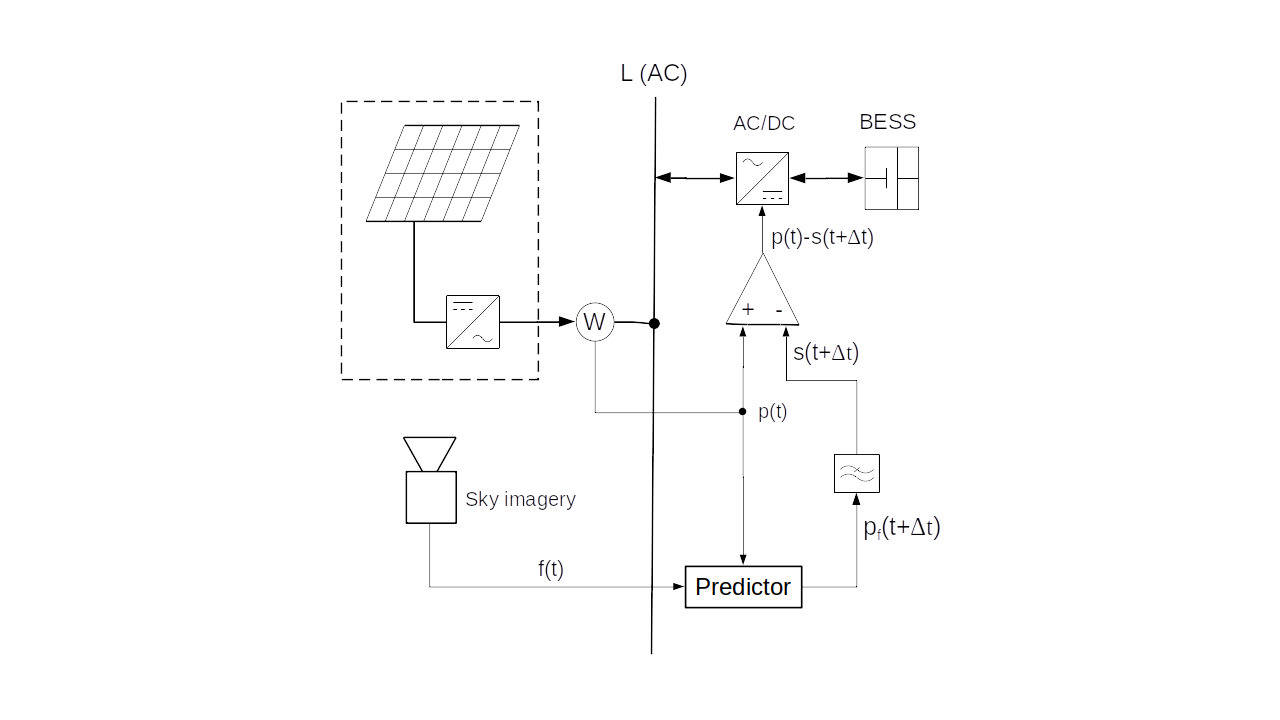
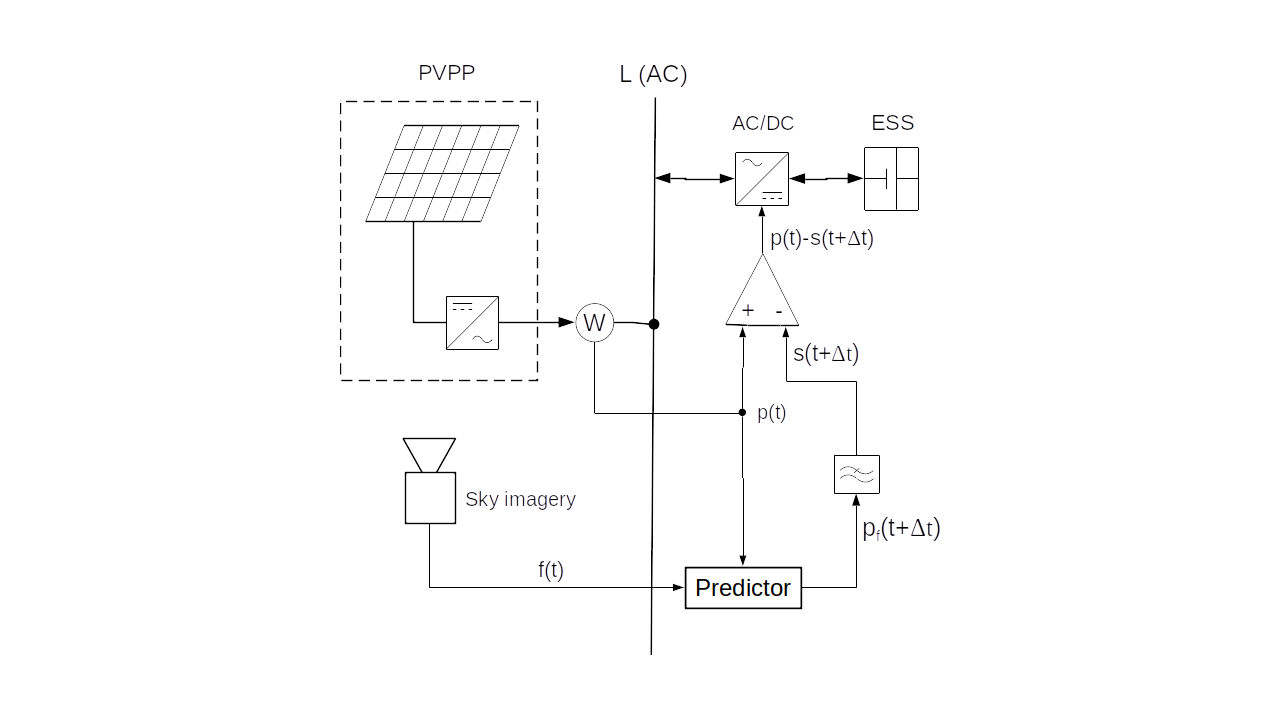
updated PLPF schema

diff --git a/docs/pv_smooth.md b/docs/pv_smooth.md
@@ -1,55 +1,55 @@
-#Smoothing of PV power intermittency
-Energy balancing between the grid and the battery may eliminate the PV intermittency almost loss-free. The objective of a loss-free smoothing is to meet the maximum ramping limits of PV power (allowed by a relevant technical standard) while accumulating the minimum possible energy by the filter. If the smooth PV power is generated by a low-pass filter (LPF) excited by the electrical output of PV panels, such a power filter induces high accumulation costs due to its time lag (group delay in its frequency response). The time lag could be eliminated, if LPF was excited by the future PV power signal. Unfortunately, the short-time PV prediction (nowcasting) is not exact and its error dramatically increases the accumulated energy by the LPF. Recently, various 
+#Smoothing of intermittent PV power
+Energy balancing between the grid and the battery may eliminate the PV intermittency almost loss-free. The objective of a loss-free smoothing is to meet the maximum ramping limits of PV power (allowed by a relevant technical standard) while accumulating the minimum possible energy by the filter. If the smooth PV power is generated by a low-pass filter (LPF) excited by the electrical output of PV panels, such a power filter induces high accumulation costs due to its time lag (a group delay in its frequency response). The time lag could be eliminated, if LPF was excited by the future PV power signal. Unfortunately, the short-time PV prediction (nowcasting) is not exact and its error dramatically increases the accumulated energy by the LPF. Recently, various 
 [predictive filters](https://www.sciencedirect.com/science/article/abs/pii/S1364032119304459)
  (e.g. 
 [zero group-delay filter](https://www.planetanalog.com/five-things-to-know-about-prediction-and-negative-delay-filters/)
 , [Kalman filter](https://www.kalmanfilter.net/default.aspx)
 , moving average, moving median, etc.) have been developed to avoid the accumulation of PV energy due to the LPF time lag and the nowcasting error. Nevertheless, the accumulation of PV power and its cost induced by the predictive filters still exceed the production cost of e.g. nuclear electricity. The advantage of predictive filters is that they integrate the predictor and LPF into a same entity, but their disadvantage is that the predictor is trained by a limited information carried by the signal GI(t).  
-We focus our analysis on the application of a 
+We focus our analysis on the application of
 [standard LPF](https://www.analog.com/en/design-center/glossary/low-pass-filter.html)
- excited by a 
+ excited by 
 [PV predictor](https://www.sciencedirect.com/science/article/abs/pii/S0038092X14001327)
-  trained by the sky imagery and GI(t) signals:
+  trained by the sky imagery and GI(t) signals. We further integrate the two into one entity, utilizing the advantage of predictive filters.
 
 <figure markdown>
   ![PLPF Schema](img/Schema_PLPF.png){ width="650"}
   <figcaption>Figure 1: Smoothing of PV power by a low-pass filter</figcaption>
 </figure>
 
-In the schematic diagram on Figure 1, PV power plant (PVPP) is connected to the grid and its intermittent PV power p(t) is accumulated or compensated (i.e. smoothed) by the accumulator (BESS). The smoothing power is actuated by a bi-directional inverter AC/DC. It is determined by the ouput signal p(t)-s(t+Δt) of a differencer. Positive sign of the smoothing power is oriented from the grid to BESS. Hence the total power superimposed to the grid by PVPP and BESS is determined by the filter’s output signal s(t+Δt). For the simplification, PVPP and BESS are single-phase-connected to the grid. We will further consider 4 different smoothing methods:
+In the schematic diagram on Figure 1, a PV power plant (PVPP) is connected to the grid and its intermittent PV power p(t) is accumulated or compensated (i.e. smoothed) by an accumulator (ESS). The smoothing power is actuated by a bi-directional inverter AC/DC. The smoothing power is determined by the ouput signal p(t)-s(t+Δt) of a differencer. Positive sign of the smoothing power is oriented from the grid to ESS. Hence the total power superimposed to the grid by PVPP and ESS is determined by the filter’s output signal s(t+Δt). For the simplification, PVPP and ESS are single-phase-connected to the grid. We will further analyse 4 different smoothing methods:
 
-- In case of **LPF** smoothing, the measured signal p(t) would bypass the predictor, directly exciting LPF.
+- In case of **LPF** smoothing, the measured signal p(t) would bypass the predictor, directly exciting the LPF.
 
-- In theory, ideal predictive smoothing **IPLPF** would excite LPF by the exact future PV power signal p(t+Δt) where the time advance Δt is absolutely equal to the LPF's group delay at frequencies f<<fc, and fc is the cut-off frequency of LPF. The smooth power signal s(t+Δt) would be the response of LPF to the input signal p(t+Δt).
+- In theory, an ideal predictive smoothing **IPLPF** would excite LPF by the exact future PV power signal p(t+Δt) where the time advance Δt is absolutely equal to the LPF's group delay at frequencies f<<fc, and fc is the cut-off frequency of LPF. The smooth power signal s(t+Δt) would be the response of LPF to the input signal p(t+Δt).
 
-- According to the schematic diagram, **PLPF** smoothing method excites LPF by a predicted PV power signal pf(t+Δt). Its predictor is trained by the sky-imagery signal and by the measured PV power p(t).
+- According to the schematic diagram, **PLPF** smoothing method excites the LPF by a predicted PV power signal pf(t+Δt). Its predictor is trained by the sky-imagery signal and by the measured PV power p(t).
 
 - Eventually, a smart smoothing method **SPLPF** (patent pending) has been designed, integrating the filter with the PV predictor which is trained by the sky-imagery signal and by the measured PV power p(t). This method uses a modified scheme.
 
 ## Accumulation of energy by smoothing
-For simplicity of analysis, the energy losses in AC/DC conversion and accumulation are neglected.  
+For the simplicity of analysis, energy losses in AC/DC conversion and accumulation are neglected.  
 Time course of the accumulated energy by ESS:
 
 $$SOC(t)=\int_{0}^t (p(\tau)-s(\tau+\Delta t))d\tau\ \ \ \ \ \ \ \ \ (1)$$
 
-defines the change of its state-of-charge [Wh] since time=0 until time=t, while SOC may acquire both positive and negative values. (Always-positive SOC values can be technically managed in ESS.) The time advance Δt reduces absolute values of the integrated function. The above-defined time advance Δt ensures that following technical criteria are satisfied:  
+defines the change of its state-of-charge [Wh] since time=0 until time=t, while SOC may acquire both positive and negative values. (Always-positive SOC values should be technically managed in ESS.) The time advance Δt reduces absolute values of the integrated function. The above-defined time advance Δt ensures following technical criteria to be satisfied:  
 Mean value of SOC is near to zero: $${1 \over T} \int_{0}^T SOC (t) dt ≈ 0\ \ \ \ \ \ \ \ \ (2)$$
 
 Mean quadratic deviation of SOC is near to minimum: $${1 \over T} \int_{0}^T SOC^2 (t) dt ≈ min\ \ \ \ \ \ \ \ \ (3)$$
 
-Hence near-to-minimum required accumulaton capacity per cycle: $$\Delta SOC = max(SOC) – min(SOC) ≈ min\ \ \ \ \ \ \ \ \ (4)$$
+Hence the required accumulaton capacity per cycle is near to minimum: $$\Delta SOC = max(SOC) – min(SOC) ≈ min\ \ \ \ \ \ \ \ \ (4)$$
 
 The value ΔSOC should be predicted and ESS must be accordingly pre-charged at the begining of each cycle T (24 hours in case of PV energy) in order to always keep SOC≥0.  
 Eventually, near-to-minimum throughput of accumulated energy per cycle is achieved by Δt: $${1 \over 2} \int_{0}^T|p(\tau)-s(\tau+\Delta t)|d \tau ≈ min\ \ \ \ \ \ \ \ \ (5)$$
 
-The rate of accumulation is expressed by (4) and (5) which are minimized by Δt during a working cycle T. The rate of accumulation is also expressed by the extreme ESS power demand p(τ)-s(τ+Δt) during a sudden loss or peak of direct sunlight. This value results from the installed power of PVPP.
+The rate of accumulation is expressed by (4) and (5) which are minimized during a working cycle T. The rate of accumulation is also expressed by the extreme ESS power demand p(τ)-s(τ+Δt) during a sudden loss or peak of direct sunlight. This value results from the installed power of PVPP.
 
-Let us assume that PV power is proportional to the global solar irradiance GI [W/m2]. In our experiment, the solar irradiance is intercepted by a planar panel 20 cm x 16 cm on the earth’s surface at latitude=48.2°N, longitude=17.1°E, with the plane of incidence elevated by 47°, south-oriented. At this point it should be mentioned that the spectrum of a real PV power is smoother than the spectrum of GI(t), as the surface area of PV plane acts like a moving-average filter. Unfortunately, the size and speed of clouds prevents a true smoothing effect from being achieved. By assuming the proportionality between the PV power p(t) and the global irradiance GI(t), we analyze the worst case of solar intermittency. Let us substitute the signals p(τ), s(τ+Δt) in (1) by the measured signal GI(τ) and by its “predicted-and-smoothed” counterpart GIs(τ+Δt). After substituting, the expression (1) computes the time course of specific accumulated energy GX(t) [Wh/m2] by the filter.
+Let us assume that the PV power is proportional to the global solar irradiance GI [W/m2]. In our experiment, the solar irradiance is intercepted by a planar panel 20 cm x 16 cm on the earth’s surface at latitude=48.2°N, longitude=17.1°E, with the plane of incidence elevated by 47°, south-oriented. At this point it should be mentioned that the spectrum of real PV power is smoother than the spectrum of GI(t), as (usually) greater surface area of the corresponding PVPP plane acts like a moving-average filter. Unfortunately, the size and speed of clouds prevent a true smoothing effect from being achieved. By assuming the proportionality between the PV power p(t) and the global irradiance GI(t), we analyze the worst case of PV intermittency. Let us substitute the signals p(τ), s(τ+Δt) in (1) by the measured signal GI(τ) and by its “predicted-and-smoothed” counterpart GIs(τ+Δt). After substituting, the expression (1) computes the time course of specific accumulated energy GX(t) [Wh/m2] by the filter.
 
 ## Ideal smoothing (IPLPF)
 We simulate the operation of ideal predictive PV smoothing (IPLPF) by means of LPF excited by the exact future signal GI(t+Δt) where GI(t) is measured and the time advance Δt (given by the LPF group delay) eliminates the filter’s time lag. In theory, such a "ex post" simulated smoothing would minimize the accumulation of energy by the filter. This analysis aims to reveal the theoretical potential and affordability of PV smoothing. The numeric experiment is based on the measured solar irradiance over a period of 1 year, assuming contemporary prices of Lithium-Ion accumulators and EDLC supercapacitors.  
-The measured time series GI(t) eventually allows to calculate the specific accumulator’s capacity [Wh/m2], its specific power [W/m2], specific energy throughput [Wh/m2/day], [Wh/m2/year] requested by the IPLPF smoothing. Based on the accumulators’ specifications and prices in 2021, the corresponding accumulation costs have been calculated. This confirmed that the IPLPF operation is definitely worthwhile with the German power purchase tariff and PV feed-in tariff in 2021. The ideal smoothing costs are substantially lower than the difference between purchase tariff and PV feed-in tariff. (We may assume that the smooth PV infeed partially compensates for the distribution costs.) 
-The simulation suggests an affordable smoothing model for a hybrid small-scale PV plant, and suggests the accumulation technology for large-scale PV plants.  
+The measured time series GI(t) eventually allows to calculate the specific accumulator’s capacity [Wh/m2], its specific power [W/m2], specific energy throughput [Wh/m2/day], [Wh/m2/year] requested by the IPLPF smoothing. Based on the accumulators’ specifications and prices in 2021, the corresponding accumulation costs have been calculated. This confirmed that the IPLPF operation is definitely worthwhile with the German power purchase tariff and PV feed-in tariff in 2021. The ideal smoothing costs are substantially lower than the difference between purchase and PV feed-in tariffs. (We may assume that the smooth PV infeed partially compensates for the distribution costs.) 
+The simulation suggests an affordable smoothing model for a hybrid small-scale PV plant, and suggests the accumulation technology for a large-scale PV plant.  
 ### Smoothing by IPLPF vs LPF  
 Global irradiance GI measured (legend meas), filtered by LPF (legend lp) and by IPLPF (legend aavg0), and specific accumulated energy GX:  
 ![PV Logger](img/GI_PV2.3but7.5.2022-04-04.png){: style="width: 49%; align='left';"}
@@ -58,7 +58,7 @@ Global irradiance GI measured (legend meas), filtered by LPF (legend lp) and by 
 The left graph shows the measured and low-passed (legend “lp”) GI signals on a day with high solar exposure and strong intermittency. The graph on the right shows the specific accumulated energy GX [Wh/m2] by IPLPF vs. LPF on the same day. The time course of GX is proportional to the battery's state of charge SOC [Wh]. Exactly-predicted input signal shifts the IPLPF output to the left (legend “aavg0”), minimizing the standard deviation of SOC, thus in practise minimizing the difference ΔSOC = max(SOC) – min(SOC) which is the requested accumulation capacity. The throughput of accumulated energy (other than ΔSOC) is also minimized by IPLPF.
 
 ### Costs of IPLPF smoothing
-The smoothing costs result from the energy accumulation. Accumulation costs are given by the rate of accumulation and the technology (e.g. Lithium-Ion RedOx, EDLC supercapacitor etc.). In theory, the accumulation rate is given by the intermittency of solar irradiance vs. desired time course of the output PV power. The accumulation rate is quantified by:
+The smoothing costs result from the energy accumulation. Accumulation costs are given by the rate of accumulation and the technology (e.g. Lithium-Ion RedOx, EDLC supercapacitor etc.). In theory, the accumulation rate is given by the intermittency of solar irradiance vs. desired time course of the output PV power. The accumulation rate can be quantified by:
 
 1. mandated ESS capacity, i.e. ΔSOC [Wh] reserved for smoothing (4)
 2. total accumulated energy throughput [Wh] by smoothing (5)
@@ -66,7 +66,7 @@ The smoothing costs result from the energy accumulation. Accumulation costs are 
 
 In practice, the values 1. and 2. are larger the more imperfectly the balancing power between the grid and the battery is controlled. In the illustrated example, IPLPF needs only 24% ΔSOC relative to LPF, and IPLPF accumulates about 50% of the energy throughput if compared to LPF. Both ΔSOC and energy throughput reach their theoretical minimum by means of IPLPF smoothing.  
 The higher LPF order or its lower cut-off frequency, the smoother output, but "earlier" input signal needed to eliminate the filter's time lag. (In case of PLPF smoothing: The greater Δt, the greater prediction error and the greater rate of accumulation.)  
-The IPLPF simulation has confirmed that a hybrid PV system i.e. a small-scale on-grid PV plant having its own BESS with capacity = 2 hours x Ppvmax, need <10% of the BESS capacity to be reserved for smoothing (7% on 2022-03-04), while the rest BESS capacity is used for the energy storage. The hybrid PV plant feeds its “overflow” power into the grid, as long as the household’s consumption is satisfied and the battery has been charged. ***Having the reserved free capacity and total battery power available, the IPLPF costs are reasonably lower than the expected added value to the smooth PV power infeed.***  
+The IPLPF simulation has confirmed that a hybrid PV system i.e. a small-scale on-grid PV plant having its own Lithium battery (BESS) with capacity = 2 hours x Ppvmax, need <10% of the BESS capacity to be reserved for smoothing (7% on 2022-03-04), while the rest BESS capacity is used as the energy storage. The hybrid PV plant feeds its “overflow” power into the grid, as long as the household’s consumption is satisfied and the battery has been charged. ***Having the reserved free capacity and total battery power available, the IPLPF costs are reasonably lower than the expected added value to the smooth PV power infeed.***  
 
 IPLPF costs measured from 04/2021 to 03/2022. The plane of incidence and the LPF applied are the same as in the GI(t) and GX(t) plots:  
 <figure markdown>
@@ -80,7 +80,7 @@ CapEx of "Hybrid with BESS” system include 90% of the BESS capacity reserved f
 Li-Ion & supercapacitor (SC): [life cycle parameters and prices](https://batteryuniversity.com/article/bu-209-how-does-a-supercapacitor-work) are as of 2021.  
 Hybrid supercapacitor (HSC): price has been estimated upon relation between Li-Ion and SC prices.
 
-The costs are specific per 1 kW of installed PV power. Installed PV power = DC output power of PV plant (before DC/AC conversion) assuming its solar incidence 1kW/m2 (1 Sun).  
+The costs are specific per 1 kW of installed PV power. Installed PV power = DC output power of PV plant (before DC/AC conversion) assuming its solar irradiance 1kW/m2 (1 Sun).  
 CapEx = initial investment to PV smoothing. OpEx = regular (e.g. yearly) costs necessary for its uninterrupted operation. The greater from (CapEx, interval * OpEx) defines the cost of PV smoothing for a given service interval. However, when the smoothing uses >1 accumulation technologies concurrently, the service interval has to be fixed before calculating OpEx. (Reason: Given the service interval, two technologies with different wear-outs can be optimally mixed.) Hybrid systems and sole PV plants use different cost models, because the sole PV plant uses a mixed accumulation technology for smoothing. Energy losses due to the AC/DC conversion and accumulation were neglected.
 
 ### Applications of IPLPF
@@ -88,7 +88,7 @@ CapEx = initial investment to PV smoothing. OpEx = regular (e.g. yearly) costs n
 A household with installed PV power <10kW is connected to the low-voltage grid, having a BESS with energy capacity ≈ 2h x installed PV power. After charging the BESS to a threshold SOC (e.g. 88%), the BESS provides enough power to smooth the PV infeed (overflowing PV power) to the grid for affordable costs, provided that the remaining free BESS capacity is left for smoothing, and additional technical measures avoid the microcycling of BESS. The power intermittency of small scale PV plants has no impact on the grid, unless their concentration in the grid is high. ***IPLPF technology offers an affordable smoothing of PV power in the grid areas with high concentration of small-scale hybrid PV systems.***
 
 #### Suitable accumulators for IPLPF
-The measured signal GI(t) determines the specific accumulation parameters maximum specific power max|GI(τ)-GIs(τ+Δt)| [W/m2] and maximum specific energy ΔGX=max(GX)-min(GX) [Wh/m2] required for the smoothing by IPLPF method. Although IPLPF shrinks the necessary ΔGX hence ΔSOC and the total accumulated throughput to their theoretical minimum, it reciprocally increases the relative smoothing power (Pmax x 1h)/ΔSOC up to 10C, since no algorithm can supply the missing PV power while the direct Sun beams are temporarily obscured by clouds. The lithium accumulators are cheap, efficient and fast, but not enough powerful for a sole IPLPF smoothing. It is not recommended to charge/draw a Li-Ion battery by a relative power >> 1, otherwise the battery’s life cycle would be curtailed. Such a high relative power is provided by EDLC supercapacitors (SC), but on contrary to Lithium bateries, these do not provide enough cheap capacity to make the IPLPF smoothing affordable. The currently-available electricity accumulation technology does not harmonize with demands of the sole IPLPF smoothing.  
+The measured signal GI(t) determines the specific accumulation parameters maximum specific power max|GI(τ)-GIs(τ+Δt)| [W/m2] and maximum specific energy ΔGX=max(GX)-min(GX) [Wh/m2] required for the smoothing by IPLPF method. Although IPLPF shrinks the necessary ΔGX hence ΔSOC and the total accumulated throughput to their theoretical minimum, it reciprocally increases the relative smoothing power (Pmax x 1h)/ΔSOC up to 8, since no algorithm can supply the missing PV power while the direct Sun beams are temporarily obscured by clouds. The lithium accumulators are cheap, efficient and fast, but not enough powerful for a sole IPLPF smoothing. It is not recommended to charge/draw a Li-Ion battery by a relative power >> 1, otherwise the battery’s life cycle would be curtailed. Such a high relative power is provided by EDLC supercapacitors (SC), but on contrary to Lithium bateries, these do not provide enough cheap capacity to make the IPLPF smoothing affordable. The currently-available electricity accumulation technology does not harmonize with demands of the sole IPLPF smoothing.  
 Actually, the IPLPF demands are well satisfied by a 
 [flywheel (FESS)](https://energystorage.org/why-energy-storage/technologies/flywheel-energy-storage-systems-fess/)
 : 1) Its max(SOC) poses no limit to max(P) within demands of IPLPF smoothing. 2) IPLPF accumulates energy only on solar-intermittent days (else no accumulation is needed), and the flywheels only wear out when they are rotating - mainly those with mechanical bearings. Because of unknown prices and life cycle parameters, we calculated neither CapExp, nor OpExp of the flywheel in a role of IPLPF accumulator. However, ***the native synergy between demands and features identifies the flywheel as a suitable accumulator for IPLPF smoothing.***
@@ -100,7 +100,7 @@ Because of missing FESS prices and wear-out data, we have cost-optimized the IPL
 , combining advantages of EDLC & RedOx technologies.
 
 ### Summary of IPLPF
-One year of the continous GI(t) measurement has confirmed that ideal PV smoothing can be affordable with the current Lithium-Ion technology - if properly implemented in a hybrid PV system (incl. measures against micro-cycling of a battery). Although the HSC technology is yet unavailable, the intensive seek for energy makes it very likely to be soon mature for large-scale installations. Flywheel can be an affordable energy storage in the IPLPF smoothing of PV power. ***Low accumulated energy by the IPLPF smoothing should motivate the further development of technologies among which accurate nowcasting of PV power and smart filtering of PV power are crucial.***
+One year of the continous GI(t) measurement has confirmed that ideal PV smoothing can be affordable with the current Lithium-Ion technology, if properly implemented in a hybrid PV system (inclusive measures against micro-cycling of its battery). Although the HSC technology is yet unavailable, the intensive seek for energy makes it very likely to be soon mature for large-scale PV installations. Flywheel can be an affordable energy storage in the IPLPF smoothing of PV power. ***Low accumulated energy by the IPLPF smoothing should motivate the further development of technologies among which accurate nowcasting of PV power and smart filtering of PV power are crucial.***
   
 ## Real smoothing of PV power
 The measured global irradiance signal GI(t) allows not only the simulation of ideal predictive low-pass smoothing (IPLPF), but also the predictive smoothing of PV power (PLPF), exciting a low-pass filter (LPF) by a simulated predicted signal GIf(t+Δt). The values GIf are biased by a prediction error. As we show below, this error induces a significant accumulation of energy by PLPF when compared with IPLPF. We simulated the prediction error to the measured GI values in order to statistically represent the real predicted signal GIf(t+Δt). Based on the measured signal GI(t), the "ex-post" simulation of PLPF allowed us to empirically analyze its smoothing performance and energy accumulation.  
@@ -131,7 +131,7 @@ For each method, the smoothing quality and the rate of accumulation were analyze
 Smoothing of PV power during a day with strong solar intermittency was analyzed by the four above-listed smoothing methods:
 The results of analysis have been tabelized and plotted. The impact of prediction error (see Figures 2, 6) exhibits the following empiric dependencies of the tracking criteria along the OLAP partial dimensions:
 
-### Analysis by prediction error
+### Impact of prediction error
 
 #### Smoothed predicted signal
 
@@ -169,14 +169,14 @@ With "better GI prediction accuracy", the SPLPF smoothing required 21% - 22% o
 
 With "worse GI prediction accuracy", the SPLPF smoothing required 24% - 33% of the ESS energy capacity (ΔGX) used by the LPF method during the selected days, or 19% - 28% of the capacity used by the PLPF method. SPLPF eventually required 1.2 - 1.8 times the ESS capacity used by the IPLPF method. The SPLPF method put 59% - 77% of the daily energy flow through the accumulator relative to the LPF method, or 63% - 69% of the energy throughput by the PLPF method. SPLPF eventually put 1.0 - 1.1 times more  energy through ESS than the IPLPF method.
 
-Although we haven't analyzed the whole year (the numerical simulation is computationally intensive), the analysis of 4 smoothing methods based on 2 days with high solar intermittency, different solar exposures, with various filter orders and prediction errors gave the real assumption that SPLPF performs much better than PLPF, and provided that the prediction error is relatively low, ***SPLPF with the optimal filter order performs close to the ideal smoothing IPLPF.*** These empiric results were also theoretically justified.
+Although we haven't analyzed the whole year (the numerical simulation is computationally intensive), the analysis of 4 smoothing methods based on 2 days with high solar intermittency, different solar exposures, with various filter orders and prediction errors gave a real assumption that SPLPF performs much better than PLPF, and provided that the prediction error is relatively low, ***SPLPF with the optimal filter order performs close to the ideal smoothing IPLPF.*** These empiric results were also theoretically justified.
 
 ## Graphical display of smoothing
-Following graphs illustrate the smoothing quality by the prediction accuracy and smoothing method, and the minimizing of accumulated energy by the filter order. The measured PV data from 2 selected days have been processed and plotted as the following per-day time courses:
+Following graphs illustrate the smoothing quality by the prediction accuracy and smoothing method, and the accumulated energy by filter order. The measured PV data from 2 selected days have been processed and plotted as the following per-day time courses:
 
 - Measured GI(t), synchronized with predicted GIf (1 hour zoomed) - Figures 2, 6
-- Measured GI(t) and its smooth counterpart by the prediction accuracy and smoothing method, applying the optimal LPF order - Figures 3, 4, 7, 8
-- Accumulated GX(t) by the prediction accuracy and smoothing method, applying the optimal LPF order - Figures 5, 9
+- Measured GI(t) and its smooth counterpart by the smoothing method and prediction accuracy, applying the optimal LPF order - Figures 3, 4, 7, 8
+- Accumulated GX(t) by the smoothing method and prediction accuracy, applying the optimal LPF order - Figures 5, 9
 - Smoothed GI(t) by the filter order and prediction accuracy, using the IPLPF and SPLPF smoothing methods - Figures 10-12, 16-18
 - Accumulated GX by the filter order and prediction accuracy, using the IPLPF and SPLPF smoothing methods - Figures 13-15, 19-21
 

diff --git a/docs/pv_log.md b/docs/pv_log.md
@@ -1,20 +1,20 @@
 # Photovoltaic intermittency and its measurement
-## Impact on the grid
-Intermittency of solar irradiance causes that time course of photovoltaic (PV) power generation is unstable over time. As the share of PV energy in the grid increases, the intermittency of solar power is posing still higher risk to the power quality and grid's stability. To mitigate the temporary unbalance between PV infeed and power consumption, a grid operator sets PV generators off-grid (or at least to a low efficiency mode) while the solar intermittency is strong. For example, the losses of intermittent PV energy were 7% in 2011 in the US state Arizona. This loss-rate is determined by the stratospheric solar intermittency and by the level of PV energy penetration in the grid: The higher PV penetration, the higher relative(!) losses due to the intermittency. Extra grid-control costs are raised by the PV intermittency. This overall impact has been projected to the last guaranteed feed-in tariff for new PV installations in Germany: In 2020, a new feed-in tariff was only about 1/3 of the purchase tariff. The state guarantee has been canceled as of 2021, and there is no more doubt that only technical innovations can further augment the share of PV energy in the grid: Smoothing of PV power could eliminate the losses of intermitent PV energy and of additional grid control costs. A smooth time course of renewable power can easily be complemented by other resources (e.g. gas- and water turbines), which is impossible with the rapidly-intermittent renewable power.  
-On the other hand, the loss-free PV smoothing takes up expensive accumulation capacity, otherwise usable as energy storage. **We will analyze and optimize the application of a low-pass filter for smoothing the PV power on days with solar intermittency.**
+**Impact on the grid**  
+Intermittency of solar irradiance causes that the time course of photovoltaic (PV) power generation is unstable over time. As the share of PV energy in the grid grows, the intermittency of solar power poses an increasing risk to the power quality and grid stability. To mitigate the temporary unbalance between PV infeed and power consumption, the grid operator sets PV generators off-grid (or at least to a low efficiency mode) while the solar intermittency is strong. For example, the losses of intermittent PV energy were 7% in 2011 in the US state Arizona. This loss-rate is determined by the irregular solar intermittency and by the share of PV energy in the grid: The higher PV share, the higher relative(!) losses of PV energy due to its intermittency. Extra grid-control costs are raised due to the PV intermittency. This overall impact has been projected to the last guaranteed feed-in tariff for new PV installations in Germany: In 2020, a new feed-in tariff was only about 1/3 of the purchase tariff. The state guarantee has been canceled as of 2021, and there is no more doubt that only technical innovations can further augment the share of PV energy in the grid: Smoothing of PV power could eliminate the losses of PV energy and the costs of additional grid control. A smooth time course of renewable power can be easily complemented by other resources (e.g. gas- and water turbines), which is impossible with the rapidly-changing renewable power.  
+On the other hand, the loss-free PV smoothing takes up expensive accumulation capacity, otherwise usable as a night energy storage. The objective is a loss-free smoothing of PV power with minimized accumulation costs.
 
 ## Measurement of global irradiance
-***Accurate measurement of global irradiance (GI) is a prerequisite for PV smoothing:***  
+***Accurate measurement of global irradiance (GI) is a prerequisite to analyze PV smoothing:***  
 
-* Accurate short-term forecasting (nowcasting) of PV power is crucial to minimize the accumulation of energy in PV power smoothing. PV power predictors are based on artificial intelligence (AI) and they can be trained by a sky-imagery and by the measured signal GI(t), in particular by its fraction intercepted by a tilted PV panel.
-* By means of the measured signal GI(t), we can excite a low-pass filter by "ex-post predicted" input signal GIf(t+Δt), as if its GIf values were the meassured values biased by a simulated prediction error. Given the predicted signal and the desired quality of smoothed PV power, the accumulated energy by the filter should be minimized. By optimizing the filter model, the energy accumulation hence the cost of PV power smoothing can be minimized.
-* However low is the accumulated energy by PV smoothing, it is not for free and pays-off only if a favourable tariff is paid for the smooth PV infeed. Maximum limits of the PV power ramping should be specified by a technical standard. Once the filter model is optimized to meet the ramping limits and the prediction error is known, real accumulation costs can be aggregated, based on the measured GI signal. There is clearly a trade-off between the cost of smoothing and its quality allowing for a corresponding reduction in the grid control costs. Using the measured signal GI(t), it is possible to optimally match the PV ramping standard with the "smooth PV feed-in tariff".
+* Accurate short-term forecasting (nowcasting) of PV power is crucial to minimize the accumulation of energy in the PV power smoothing. PV power predictors are based on artificial intelligence (AI) and they can be trained by a sky-imagery and by the measured signal GI(t), in particular its fraction intercepted by a tilted PV panel.
+* By means of the measured signal GI(t), we can excite a low-pass filter by "ex-post predicted" input signal GIf(t+Δt), as if its GIf values were the meassured values biased by a simulated prediction error. Given the predicted signal and the desired quality of smoothed PV power, the accumulated energy by the filter should be minimized. By optimizing such a filter model, the energy accumulation hence costs of the PV power smoothing can be minimized.
+* However low is the accumulated energy for smoothing, it is not for free and the PV smoothing becomes economically viable only if a favourable feed-in tariff pays-off for this effort. Maximum limit of the PV power ramping should be specified by a technical standard. Once the filter model is optimized to meet the ramping limit for the lowest cost with the given PV prediction error, real accumulation costs can be aggregated upon the measured GI signal. There is clearly a trade-off between the smoothing cost and its quality allowing for a corresponding reduction in the grid control. Using the measured signal GI(t), it is possible to match the PV ramping limit with the "smooth PV feed-in tariff".
 
-Measurement of solar irradiance for the sake of PV smoothing must meet the folloowing demands:
+Measurement of solar irradiance for the analysis of PV smoothing must meet the folloowing demands:
 
-- Capture the full spectrum of solar intermittency with sufficient sampling frequency
-- Replicate the physical properties of planar silicon photovoltaic panels
-- Measure only that fraction of incident radiation, which is intercepted by a tilted PV panel. 
+- Capture the full spectrum of solar intermittency using sufficient sampling frequency
+- Respect the physical properties of planar silicon photovoltaic panels
+- Measure only that fraction of incident radiation which is intercepted by a tilted PV panel. 
 
 ![PV console](img/PV_Panels.JPG){ width="300"  align=right }
 
@@ -26,7 +26,7 @@ A corresponding measurement system with data logger has been developed and is in
 
  The system consists of 2 units:
 
-1. external console carrying 4 reference PV panels fixed in different angles, and temperature sensors sticked to the panels,
+1. external console carrying 4 reference PV panels fixed in different angles, and temperature sensors sticked on the panels,
 2. internal measurement unit, serving as a MPPT controller, battery charger, heat sink, A/D converter, and data logger.
 
 The main system highlights:
@@ -36,7 +36,7 @@ The main system highlights:
 , having its 
 [Linke-turbidity factor](https://glossary.ametsoc.org/wiki/Linke_turbidity_factor)
  calibrated by the reference GHI, dHI measured at the near meteorological site. The PV panels are re-calibrated once a year.
-* Temperature sensors are fixed onto each PV panel. The panels are always operated at 
+* Temperature sensors are fixed onto each PV panel. The panels are always operated at the
 [maximum output power (MPPT)](https://www.leonics.com/support/article2_14j/articles2_14j_en.php)
 . Their operating point is being dynamically adjusted for the temperature drift of their A-V characteristics and for their internal resistance. The measured output power of each panel is divided by its active surface area and by its (known) efficiency at given surface temperature. The measurement is eventually expressed as "photovoltaic global irradiance" in W/m2 analogous to GI measured at given angle of the plane of incidence, but taking into account the spectral and reflexion properties of PV panels.
 * Data logger samples GI with a dynamic frequency. The sampling period ranges from 0.5 second to 10 minutes, according to the solar intermittency. This captures the whole spectrum of solar intermittency, but eliminates the redundancy in stored data. Several years of such an irregular time series can be stored in a relational database with tablespace <1TB.
@@ -44,8 +44,8 @@ The main system highlights:
 ![GI](img/GI.2022-01-15.png){ width="300"  align=right }
 * Simultaneous measurement of GI in 4 fixed normal angles allows an accurate interpolation of GI at any plane of incidence pointing its normal vector among the 4 fixed normal vectors (intra-normal area).
 
-Daily profiles (12 h) of photovoltaic GI [W/m2] measured at 4 fixed planes. GHI corresponds to the horizontal plane and extrapolated GNI corresponds to a virtual solar-tracked plane of incidence. Its normal vector points to the extra-normal area in winter while the solar elevation is lower than the elevation of the 4 fixed normal vectors. The approximated GNI is therefore less accurate in winter.
+Daily (12 h) profiles of photovoltaic GI [W/m2] measured at 4 fixed planes. GHI corresponds to the horizontal plane and extrapolated GNI corresponds to a virtual solar-tracked plane of incidence. Its normal vector points to the extra-normal area in winter while the solar elevation is lower than the elevation of the 4 fixed normal vectors. The approximated GNI is therefore less accurate in winter.
 ![Cels](img/Cels.2022-01-15.png){ width="300"  align=right }
 
-Daily temperature profiles (24 h) at PV surfaces, and the ambient temperature. The PV surface's temperature is affected by the ambient temperature, solar radiation, and by the wind. The ambient temperature is higher than the sky temperature, so the PV pnales are always cooled by their own radiation. This effect can be observed in the night when the panels are not exposed to solar radiation.
+Daily (24 h) temperature profiles at PV surfaces, and the ambient temperature. The PV surface's temperature is affected by the ambient temperature, solar radiation, and by the wind. The ambient temperature is higher than the sky temperature, so the PV panels are always cooled by their own radiation. This effect can be observed in the night when the panels are not exposed to solar radiation.
 
